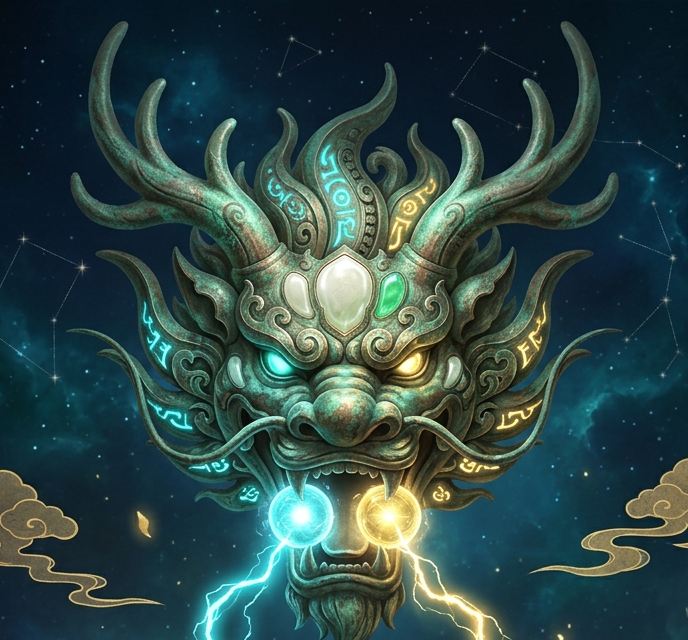
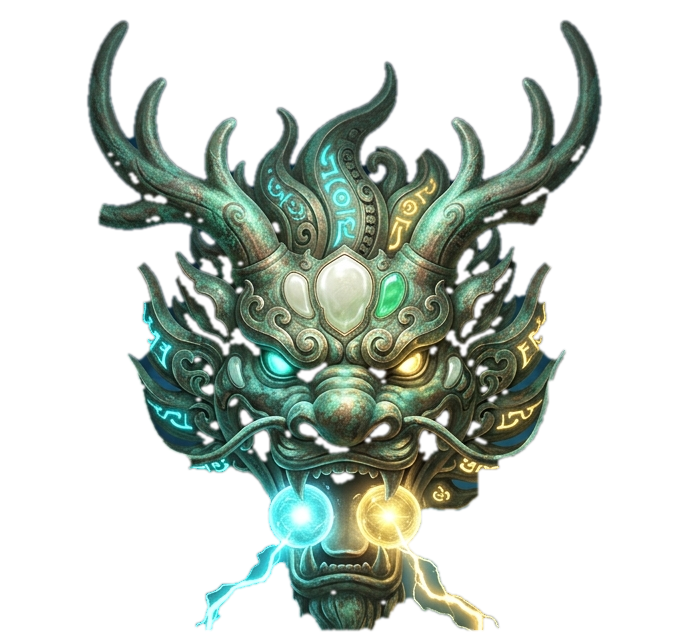
style: remove sticker look from dragon head with transparent alpha cutout, 3D celestial halo, and foreground mist veil

diff --git a/css/style.css b/css/style.css
@@ -9585,7 +9585,7 @@ body.tier-spirit-realm .reel-frame {
   box-shadow: inset 0 0 40px rgba(0, 0, 0, 0.85), 0 4px 20px rgba(0, 0, 0, 0.6);
 }
 
-/* 穹顶神龙法相 (视觉主宰区 · 放大震撼视觉冲击) */
+/* 穹顶神龙法相 (视觉主宰区 · 3D深度仙境机栝融合) */
 .dragon-head-box {
   position: absolute;
   top: 2px;
@@ -9598,6 +9598,45 @@ body.tier-spirit-realm .reel-frame {
   align-items: center;
   z-index: 3;
   pointer-events: none;
+}
+
+/* 后景：周天八卦天机光轮 (深邃神阵依托，消除悬空贴片感) */
+.dragon-celestial-halo {
+  position: absolute;
+  top: 10px;
+  left: 50%;
+  transform: translateX(-50%);
+  width: 200px;
+  height: 200px;
+  border-radius: 50%;
+  border: 1px dashed rgba(0, 229, 255, 0.35);
+  box-shadow: inset 0 0 30px rgba(0, 229, 255, 0.15), 0 0 25px rgba(0, 229, 255, 0.12);
+  background: radial-gradient(circle, rgba(10, 32, 50, 0.6) 0%, rgba(3, 12, 22, 0.88) 72%, transparent 100%);
+  pointer-events: none;
+  z-index: 1;
+  animation: celestial-halo-spin 60s linear infinite;
+}
+
+.dragon-celestial-halo::before {
+  content: '';
+  position: absolute;
+  inset: 14px;
+  border-radius: 50%;
+  border: 1px solid rgba(255, 215, 0, 0.28);
+  box-shadow: inset 0 0 16px rgba(255, 215, 0, 0.15);
+}
+
+.dragon-celestial-halo::after {
+  content: '';
+  position: absolute;
+  inset: 32px;
+  border-radius: 50%;
+  border: 1px dotted rgba(0, 229, 255, 0.4);
+}
+
+@keyframes celestial-halo-spin {
+  0% { transform: translateX(-50%) rotate(0deg); }
+  100% { transform: translateX(-50%) rotate(360deg); }
 }
 
 /* 龙威动态光晕气场 (随狂暴蓄力与状态色彩演化) */
@@ -9656,22 +9695,61 @@ body.tier-spirit-realm .reel-frame {
   100% { transform: translateX(-50%) scale(1.18); opacity: 1.0; }
 }
 
+/* 中景：透明镂空神龙法相本体 */
 .dragon-head-sprite {
-  width: 245px;
-  height: 160px;
+  width: 250px;
+  height: 170px;
   object-fit: contain;
-  filter: drop-shadow(0 4px 14px rgba(0, 0, 0, 0.95)) drop-shadow(0 0 16px rgba(0, 229, 255, 0.35));
+  filter: drop-shadow(0 0 18px rgba(0, 229, 255, 0.45)) drop-shadow(0 10px 24px rgba(0, 0, 0, 0.95));
   transition: transform 0.25s cubic-bezier(0.175, 0.885, 0.32, 1.275);
   animation: dragon-idle-breathe 4s ease-in-out infinite alternate;
   z-index: 2;
   position: relative;
-  mask-image: radial-gradient(ellipse at 50% 50%, #000 70%, transparent 98%);
-  -webkit-mask-image: radial-gradient(ellipse at 50% 50%, #000 70%, transparent 98%);
 }
 
 @keyframes dragon-idle-breathe {
-  0% { transform: translateY(0) scale(1); filter: drop-shadow(0 4px 14px rgba(0,0,0,0.95)) drop-shadow(0 0 12px rgba(0, 229, 255, 0.28)); }
-  100% { transform: translateY(3px) scale(1.02); filter: drop-shadow(0 8px 18px rgba(0,0,0,0.98)) drop-shadow(0 0 22px rgba(0, 229, 255, 0.5)); }
+  0% { transform: translateY(0) scale(1); filter: drop-shadow(0 0 14px rgba(0, 229, 255, 0.38)) drop-shadow(0 8px 20px rgba(0, 0, 0, 0.95)); }
+  100% { transform: translateY(3px) scale(1.02); filter: drop-shadow(0 0 22px rgba(0, 229, 255, 0.6)) drop-shadow(0 12px 28px rgba(0, 0, 0, 0.98)); }
+}
+
+/* 前景：仙道瑞气祥云 (前后景深遮挡，消除下颔截断生硬感) */
+.dragon-mist-veil {
+  position: absolute;
+  bottom: 14px;
+  left: 0;
+  right: 0;
+  height: 48px;
+  pointer-events: none;
+  z-index: 3;
+  display: flex;
+  justify-content: space-between;
+  align-items: flex-end;
+  padding: 0 18px;
+  box-sizing: border-box;
+}
+
+.dragon-cloud-scroll {
+  width: 105px;
+  height: 38px;
+  background: radial-gradient(ellipse at center, rgba(14, 40, 60, 0.95) 0%, rgba(6, 20, 32, 0.8) 55%, transparent 80%);
+  filter: blur(2px) drop-shadow(0 0 10px rgba(0, 229, 255, 0.4));
+  border-radius: 50% 50% 40% 40%;
+  animation: cloud-float 4.5s ease-in-out infinite alternate;
+}
+
+.dragon-cloud-scroll.cloud-left {
+  transform: rotate(-5deg);
+  animation-delay: 0s;
+}
+
+.dragon-cloud-scroll.cloud-right {
+  transform: rotate(5deg);
+  animation-delay: 2.2s;
+}
+
+@keyframes cloud-float {
+  0% { transform: translateY(0) scale(0.95); opacity: 0.7; }
+  100% { transform: translateY(-4px) scale(1.05); opacity: 0.95; }
 }
 
 .dragon-head-sprite.charging {

diff --git a/index.html b/index.html
@@ -63,10 +63,17 @@
         <div class="dragon-spout-stage" id="dragon-spout-stage">
           <!-- 穹顶神龙法相 (青铜古玉天工神机 · 巨大威武视觉冲击) -->
           <div class="dragon-head-box" id="dragon-head-box">
+            <!-- 后景：周天八卦天机光轮 (神阵依托，消除悬空贴片感) -->
+            <div class="dragon-celestial-halo" id="dragon-celestial-halo"></div>
             <!-- 龙威气场色彩流转 (Calm碧蓝 -> Warm灿金 -> Blazing烈焰 -> Frenzy暴怒) -->
             <div class="dragon-rage-aura rage-calm" id="dragon-rage-aura"></div>
             <img src="assets/dragon/dragon_head.png" alt="天工神龙" class="dragon-head-sprite" id="dragon-head-sprite" />
             <div class="dragon-breath-glow" id="dragon-breath-glow"></div>
+            <!-- 前景：仙道瑞气祥云遮挡 (前后景深遮挡，消除下颔生硬截断感) -->
+            <div class="dragon-mist-veil" id="dragon-mist-veil">
+              <div class="dragon-cloud-scroll cloud-left"></div>
+              <div class="dragon-cloud-scroll cloud-right"></div>
+            </div>
             <!-- 内嵌微型龙威能量律动条 (隐藏繁杂文字，融入龙颔神机) -->
             <div class="dragon-rage-gauge-wrap" id="dragon-rage-gauge-wrap" title="真龙威势">
               <div class="dragon-rage-gauge-fill" id="dragon-rage-gauge-fill" style="width: 0%;"></div>
